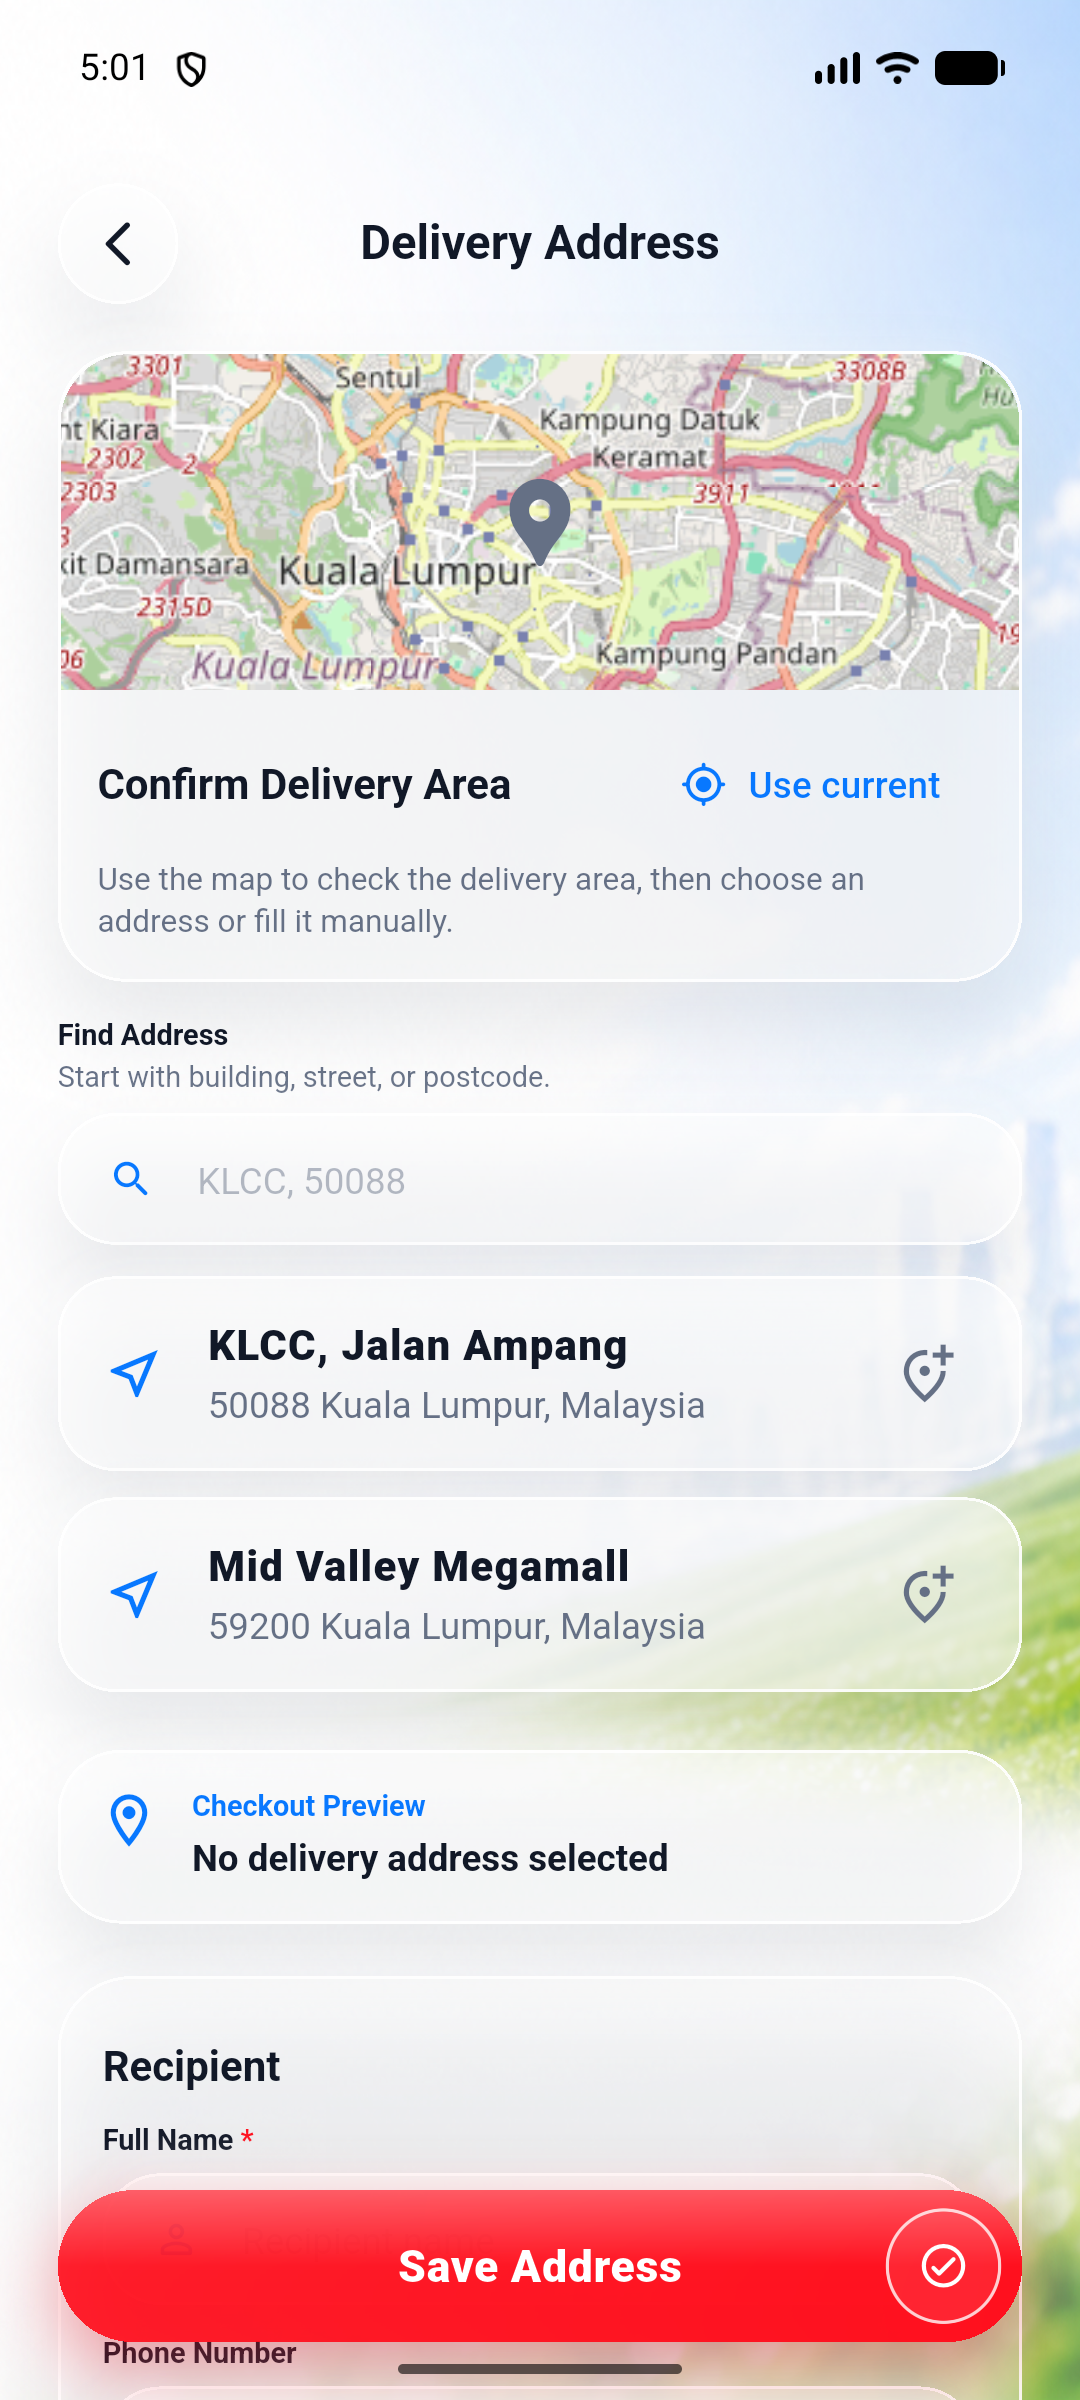
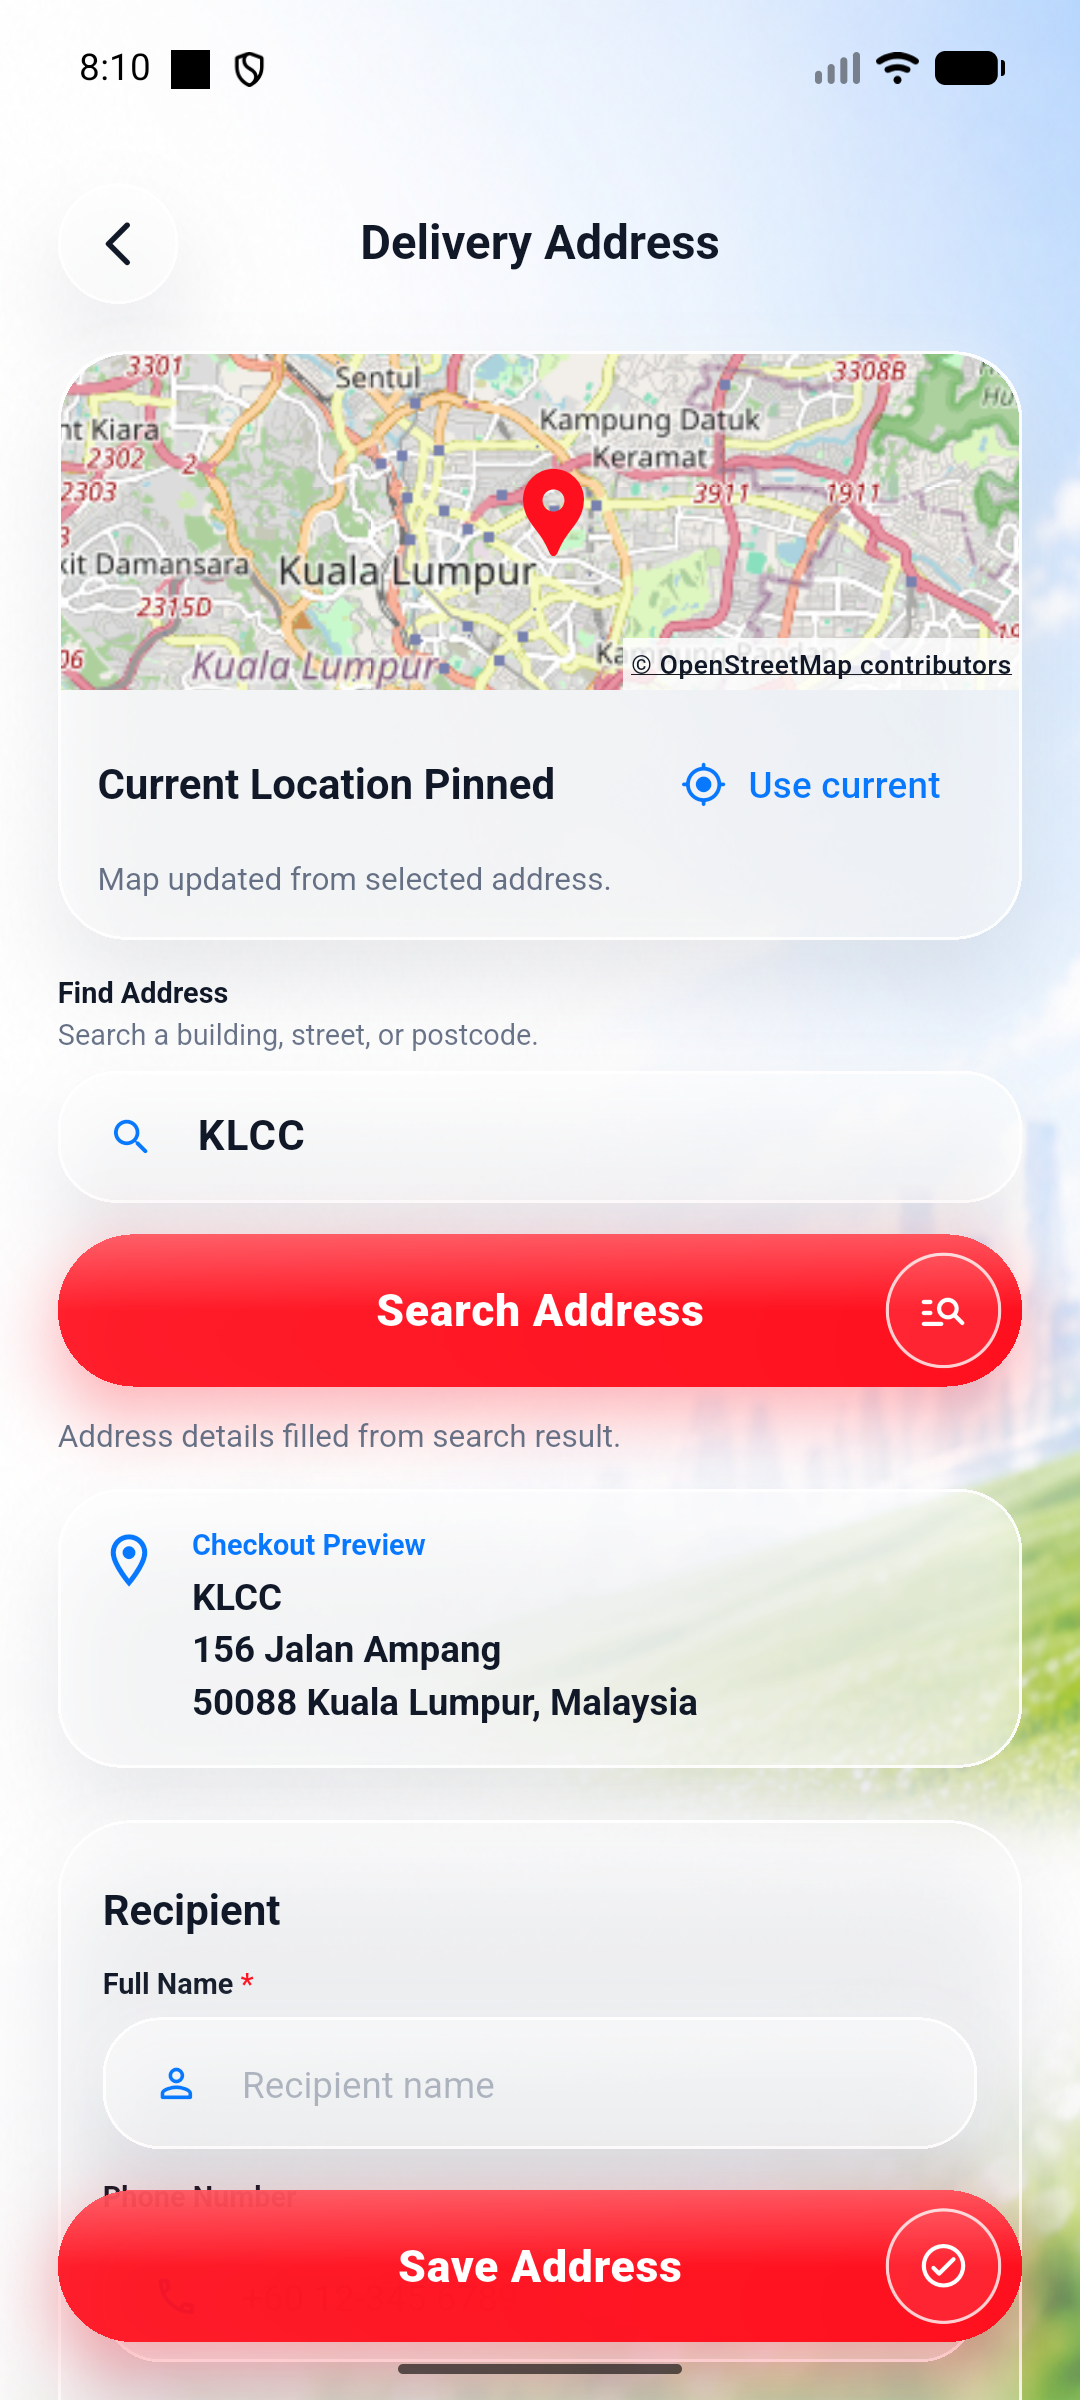
release: add map attribution and bump v1.2.0

diff --git a/retro_tech_marketplace/lib/screens/settings/about_screen.dart b/retro_tech_marketplace/lib/screens/settings/about_screen.dart
@@ -2,6 +2,7 @@ import 'dart:ui';
 import 'package:flutter/material.dart';
 import 'package:flutter_map/flutter_map.dart';
 import 'package:latlong2/latlong.dart';
+import 'package:url_launcher/url_launcher.dart';
 import '../../constants/assets.dart';
 import '../../store/listing_store.dart';
 import '../../store/seed_data.dart';
@@ -902,7 +903,7 @@ class _HeadquartersMapCardState extends State<HeadquartersMapCard> {
                           ),
                           SizedBox(height: 4),
                           Text(
-                            'Map data: OpenStreetMap contributors',
+                            'Map data: © OpenStreetMap contributors',
                             style: AboutText.metricLabel,
                             maxLines: 1,
                             overflow: TextOverflow.ellipsis,
@@ -985,7 +986,7 @@ class _HeadquartersMapPreviewState extends State<HeadquartersMapPreview> {
           children: [
             TileLayer(
               urlTemplate: 'https://tile.openstreetmap.org/{z}/{x}/{y}.png',
-              userAgentPackageName: 'RetroTechMarketplace/1.1.2',
+              userAgentPackageName: 'RetroTechMarketplace/1.2.0',
               maxNativeZoom: 19,
             ),
             MarkerLayer(
@@ -1008,6 +1009,30 @@ class _HeadquartersMapPreviewState extends State<HeadquartersMapPreview> {
                   ),
                 ),
               ],
+            ),
+            Align(
+              alignment: Alignment.bottomRight,
+              child: ColoredBox(
+                color: Colors.white.withValues(alpha: 0.82),
+                child: Padding(
+                  padding: EdgeInsets.all(3),
+                  child: TextSourceAttribution(
+                    'OpenStreetMap contributors',
+                    textStyle: TextStyle(
+                      color: aboutInk,
+                      fontSize: 10,
+                      fontWeight: FontWeight.w600,
+                      decoration: TextDecoration.underline,
+                    ),
+                    onTap: () async {
+                      await launchUrl(
+                        Uri.parse('https://www.openstreetmap.org/copyright'),
+                        mode: LaunchMode.externalApplication,
+                      );
+                    },
+                  ),
+                ),
+              ),
             ),
           ],
         ),

diff --git a/retro_tech_marketplace/lib/screens/checkout/delivery_address_screen.dart b/retro_tech_marketplace/lib/screens/checkout/delivery_address_screen.dart
@@ -5,6 +5,7 @@ import 'package:flutter/material.dart';
 import 'package:flutter_map/flutter_map.dart';
 import 'package:geolocator/geolocator.dart';
 import 'package:latlong2/latlong.dart';
+import 'package:url_launcher/url_launcher.dart';
 
 import '../../constants/theme.dart';
 import '../../models/delivery_address.dart';
@@ -529,6 +530,32 @@ class _LocationPanel extends StatelessWidget {
                         ),
                       ),
                     ],
+                  ),
+                  Align(
+                    alignment: Alignment.bottomRight,
+                    child: ColoredBox(
+                      color: Colors.white.withValues(alpha: 0.82),
+                      child: Padding(
+                        padding: EdgeInsets.all(3),
+                        child: TextSourceAttribution(
+                          'OpenStreetMap contributors',
+                          textStyle: TextStyle(
+                            color: AppTheme.ink,
+                            fontSize: 10,
+                            fontWeight: FontWeight.w600,
+                            decoration: TextDecoration.underline,
+                          ),
+                          onTap: () async {
+                            await launchUrl(
+                              Uri.parse(
+                                'https://www.openstreetmap.org/copyright',
+                              ),
+                              mode: LaunchMode.externalApplication,
+                            );
+                          },
+                        ),
+                      ),
+                    ),
                   ),
                 ],
               ),

diff --git a/retro_tech_marketplace/test/widget_test.dart b/retro_tech_marketplace/test/widget_test.dart
@@ -58,7 +58,7 @@ void main() {
 
   test('update service checks the published release repository', () {
     expect(UpdateService.repository, 'WalterCQ/SWE311-retro-tech-marketplace');
-    expect(UpdateService.fallbackVersion, '1.1.6');
+    expect(UpdateService.fallbackVersion, '1.2.0');
   });
 
   test('release parser selects the first APK asset download URL', () {
@@ -1189,6 +1189,7 @@ void main() {
     );
     await tester.pumpAndSettle();
     expect(find.text('Use current'), findsOneWidget);
+    expect(find.text('© OpenStreetMap contributors'), findsOneWidget);
     expect(find.text('No delivery address selected'), findsOneWidget);
     expect(find.text('KLCC, Jalan Ampang'), findsNothing);
 

diff --git a/retro_tech_marketplace/lib/services/update_service.dart b/retro_tech_marketplace/lib/services/update_service.dart
@@ -26,7 +26,7 @@ class AppUpdateInfo {
 class UpdateService {
   const UpdateService();
 
-  static const fallbackVersion = '1.1.6';
+  static const fallbackVersion = '1.2.0';
   static const repository = 'WalterCQ/SWE311-retro-tech-marketplace';
   static const releasePageUrl =
       'https://github.com/$repository/releases/latest';
